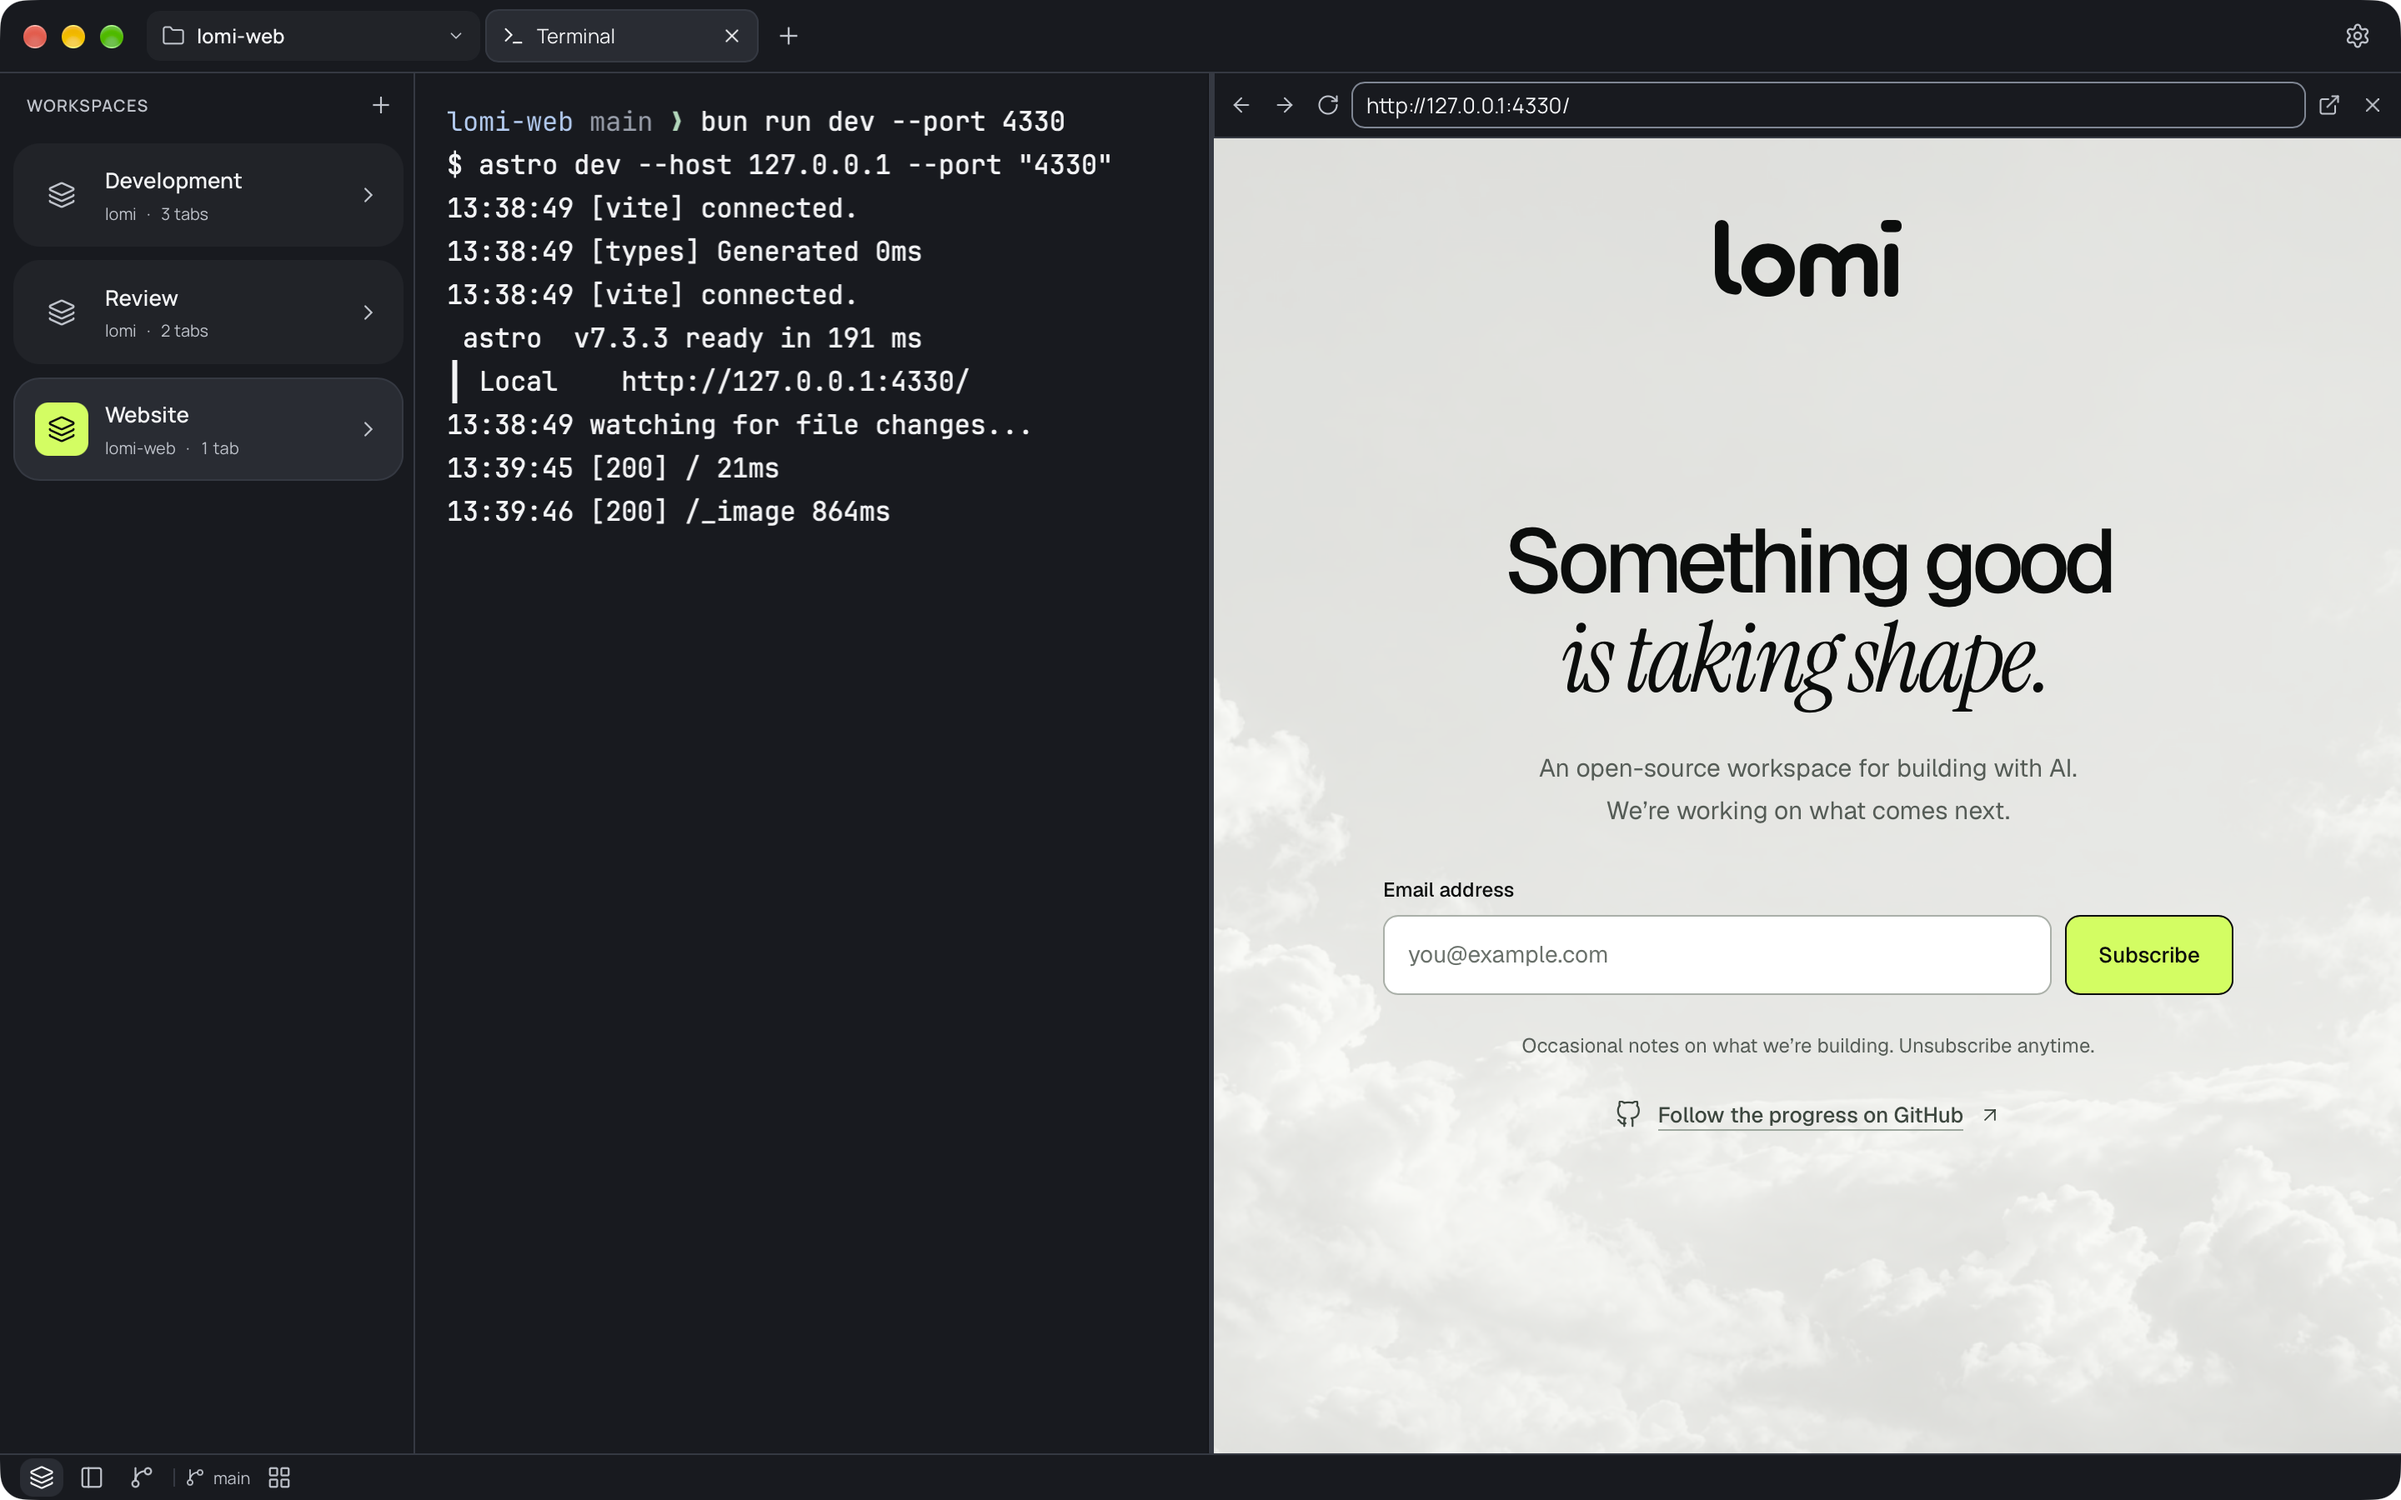
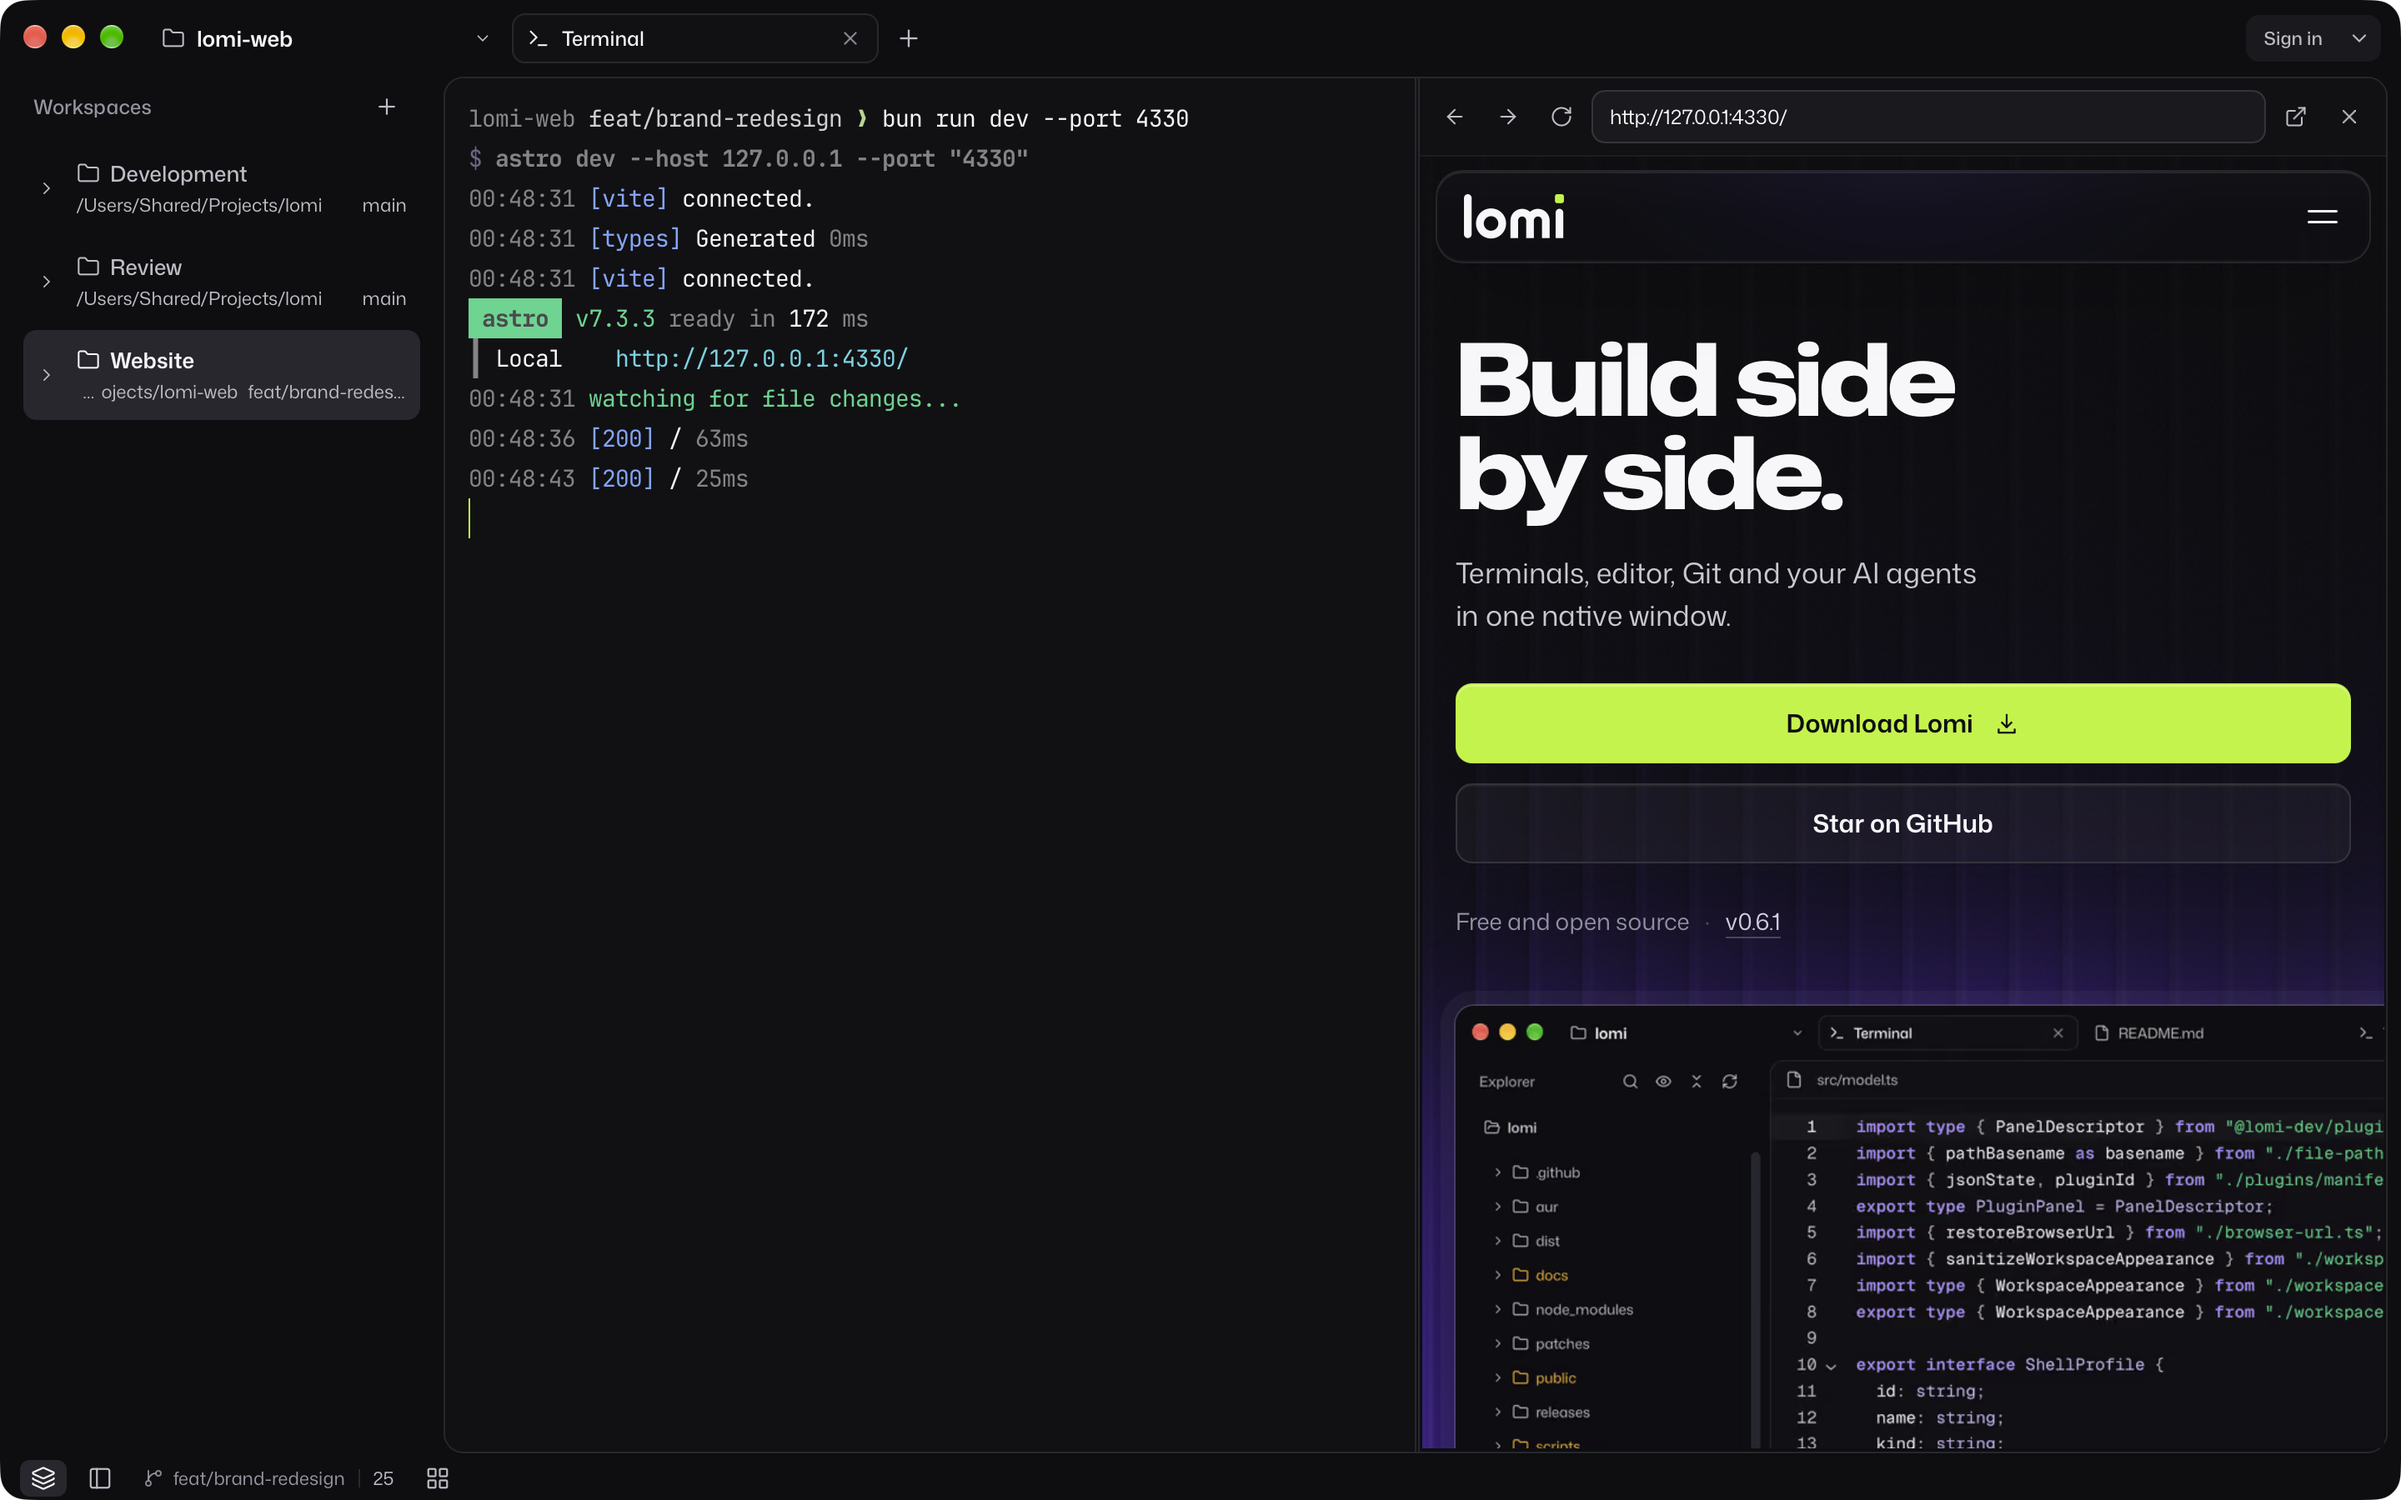
feat(web): recapture desktop screenshots in the new UI
Replace the hero, Download, Remote and Git history captures with
screenshots of the refreshed desktop app. The hero now shows Claude
Code and Codex in two stacked terminal panels, so both stay visible
inside the hero's cropped frame. Update the alternative text and the
asset provenance notes to match the new captures.

Validation:
- bun run build (astro check + build): passed, 0 errors
- Hero, Download and Remote pages checked in headless Chromium: passed

diff --git a/content/page-defaults.ts b/content/page-defaults.ts
@@ -22,7 +22,7 @@ export const pageDefaults = {
     feedback: { packageError: 'We couldn’t check package availability. Browse releases on GitHub.', packageReady: '{package} is ready to download.', packageMissing: '{package} is not in the latest release. Browse its files on GitHub.', packageFallback: 'This package', releaseReady: 'Latest release {tag} is ready.', releaseError: 'We couldn’t check the latest release. You can still browse releases on GitHub.' },
     showAur: true,
     aur: { title: 'On Arch Linux?', href: 'https://aur.archlinux.org/packages/lomi-bin', linkLabel: 'View on AUR', description: 'Install the x86_64 binary with your AUR helper.', command: 'yay -S lomi-bin', copyAriaLabel: 'Copy AUR install command', copyLabel: 'Copy', copiedLabel: 'Copied', copyFallbackLabel: 'Copy command', copiedStatus: 'Command copied.', copyError: 'Couldn’t copy the command. Select the code and copy it manually.' },
-    showScreenshot: true, screenshot: { image: null, alt: 'The Lomi desktop app on macOS, with the project explorer, TypeScript editor and terminal in one workspace.', heading: 'Lomi on macOS', caption: 'The Lomi workspace' },
+    showScreenshot: true, screenshot: { image: null, alt: 'The Lomi desktop app on macOS, with Claude Code and Codex running in two terminal panels of one workspace.', heading: 'Lomi on macOS', caption: 'The Lomi workspace' },
     showHelp: true, help: { text: 'Need a hand getting started?', label: 'Read the documentation', href: 'https://docs.lomi.dev' },
   },
   remote: {
@@ -33,7 +33,7 @@ export const pageDefaults = {
     platforms: { unix: { label: 'macOS / Linux', command: 'curl -fsSL https://lomi.dev/download/remote | bash' }, windows: { label: 'Windows', command: 'Invoke-RestMethod "https://lomi.dev/download/remote.ps1" | Invoke-Expression' } },
     commandAriaLabel: '{platform} installation command. Scroll to read the full command.', copyAriaLabel: 'Copy {platform} install command', manualCopy: 'Select the command and copy it manually.',
     feedback: { waiting: 'Waiting for clipboard', copied: '{platform} command copied.', error: 'Couldn’t copy. The command is selected so you can copy it manually.' },
-    showScreenshot: true, screenshot: { image: null, alt: 'The Lomi desktop app on macOS, with the project explorer, TypeScript editor and terminal in one workspace.' },
+    showScreenshot: true, screenshot: { image: null, alt: 'The Lomi desktop app on macOS, with Claude Code and Codex running in two terminal panels of one workspace.' },
   },
   devlog: {
     seo: { title: 'Devlog | Lomi', description: 'Development videos about Lomi: new features, fixes and project updates.' },

diff --git a/docs/assets.md b/docs/assets.md
@@ -57,9 +57,11 @@ invalidates old callbacks. The previous mobile placeholder and unused dialog
 component remain archived.
 The native `browser.png` capture remains a local asset for future sections.
 
-The desktop captures copied from `../lomi/docs/images/` include
-`src/assets/product/workbench.png` (project explorer, TypeScript editor and
-terminal), now used as the selected hero's default screen; `source-control.png`
+The desktop captures were recaptured on 21 November 2026 from the refreshed
+Lomi Dev build (`../lomi`, dark appearance, 2880 × 1800 Retina window); the
+feature recordings use a local demo project. They include
+`src/assets/product/workbench.png` (Claude Code and Codex in two stacked
+terminal panels), now used as the selected hero's default screen; `source-control.png`
 (Git history and diff) and `browser.png` remain archived for future approved
 sections.
 
